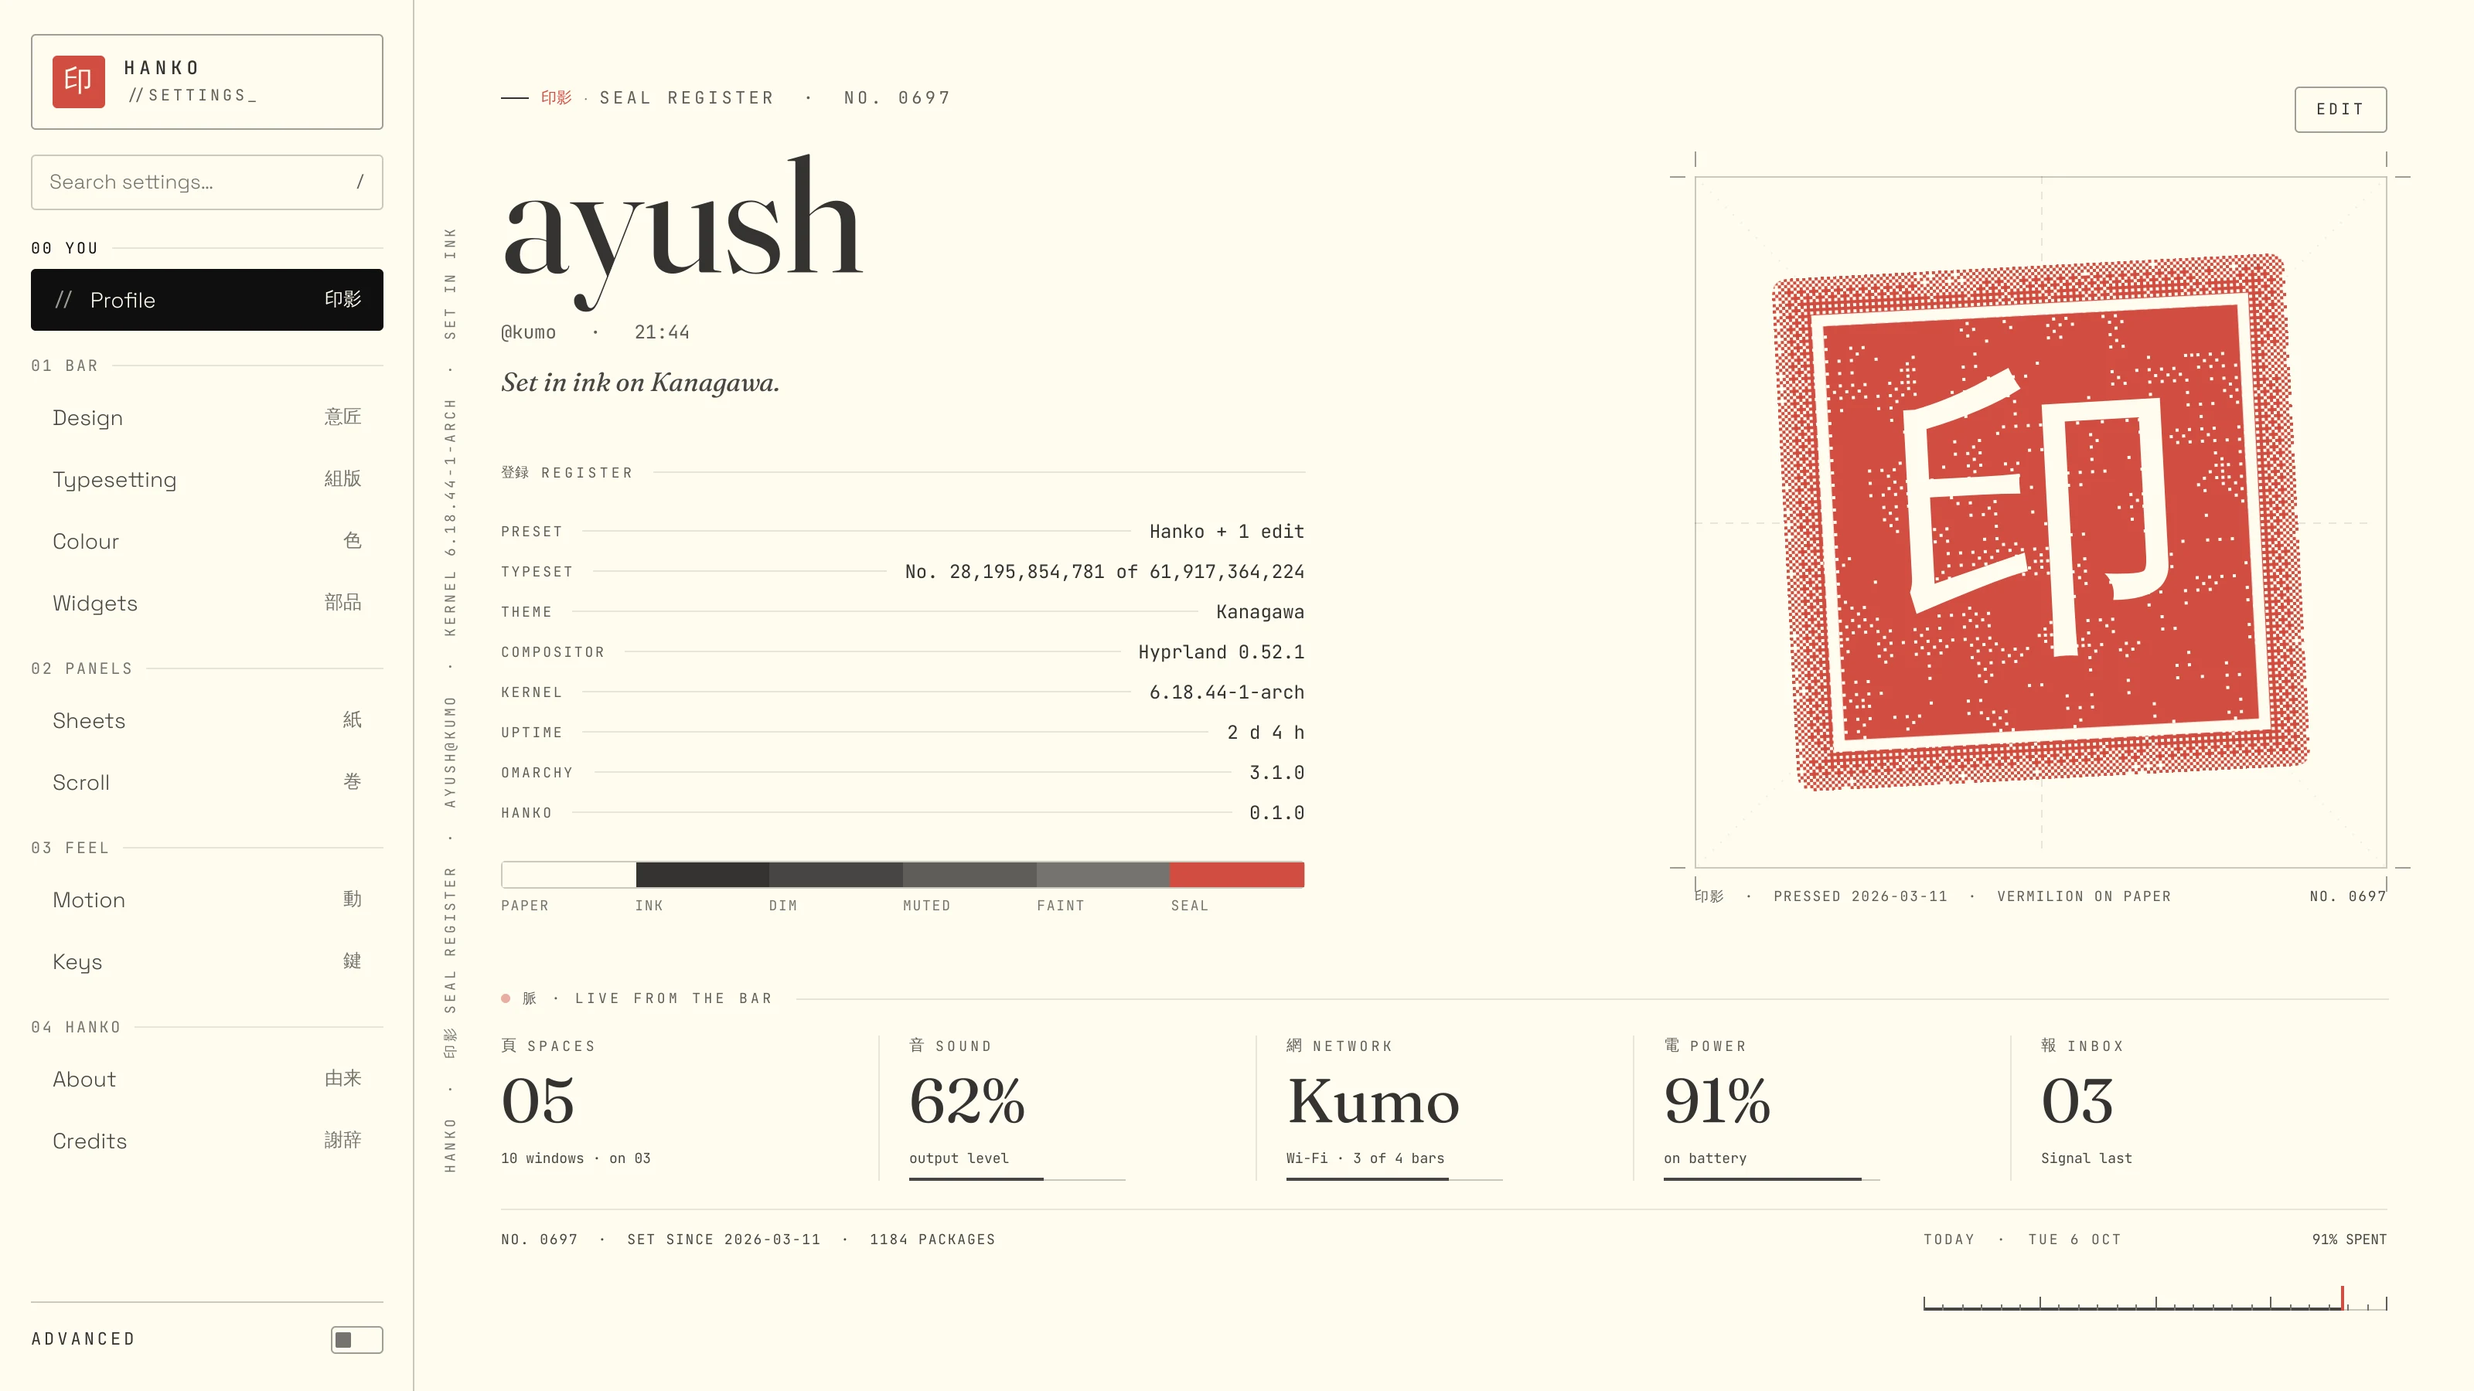
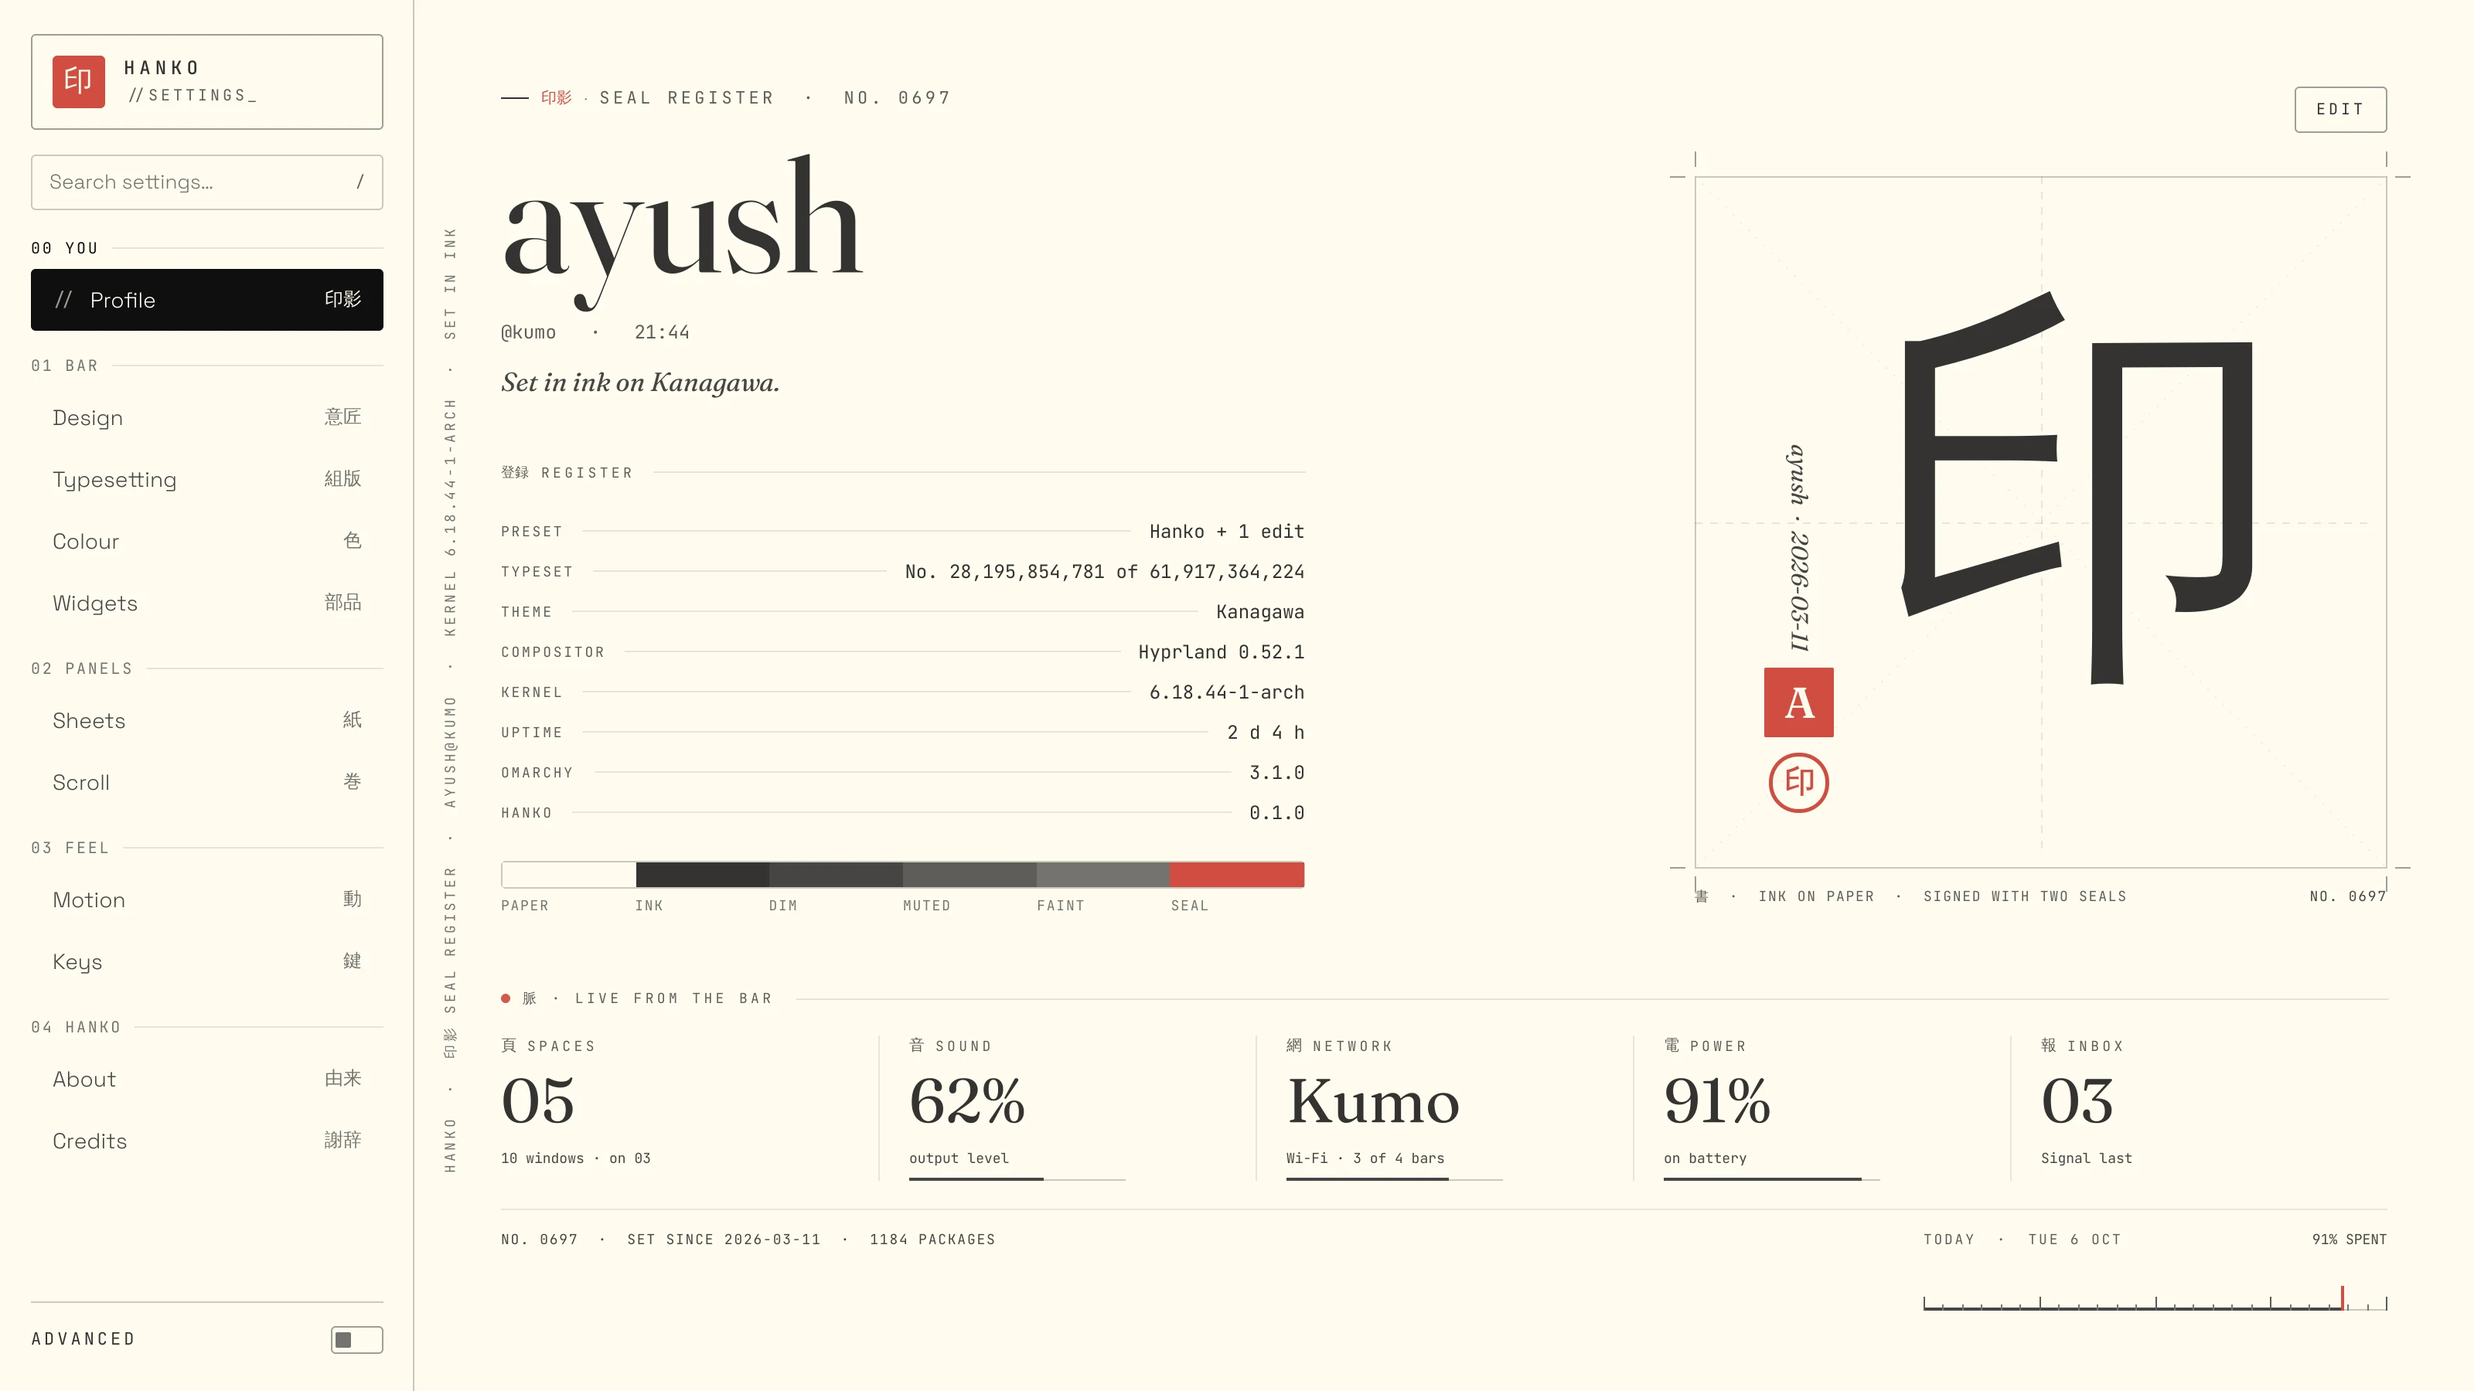
Profile: the seal becomes a one-character work signed with two small seals
The large dithered red seal is replaced by your glyph written in ink as a
one-character work, signed the way calligraphy is: your name down the
margin over a square white-cut name seal and a round red pen-name seal,
drawn crisp in vector. SealImpression is removed.

Claude-Session: https://claude.ai/code/session_01Tp9gk1FgjZsMjeqrzW7SN3

Changed region(s): [[0.6875, 0.1867, 0.9375, 0.5911], [0.7812, 0.6222, 0.875, 0.6533], [0.7188, 0.6222, 0.75, 0.6533]]

diff --git a/bar/settings/Shikishi.qml b/bar/settings/Shikishi.qml
@@ -1,0 +1,101 @@
+import QtQuick
+import "../../core"
+
+// Your seal glyph written as a one-character work (一字書) and signed the
+// way calligraphy is: the work large in ink, and in its lower left the
+// rakkan (落款), a signature running down the margin over two small seals,
+// as a work carries them: a square hakubun (白文, your name's initial cut
+// white out of vermilion) for the name, and a round shubun (朱文, the glyph
+// standing in vermilion) for the pen name. Drawn crisp in vector,
+// so the only red on the Profile plate is two small, exact marks.
+Item {
+  id: root
+
+  property string glyph: "印"
+  property string name: ""
+  property string date: ""
+
+  readonly property real s: Math.min(width, height)
+  readonly property string initial: (name || "?").charAt(0).toUpperCase()
+
+  // The work: the glyph, large, a little right of centre so the signature
+  // has its margin.
+  Text {
+    id: work
+    x: Math.round(root.width * 0.56 - width / 2)
+    y: Math.round(root.height * 0.46 - height / 2)
+    text: root.glyph
+    color: Ink.ink
+    font.family: Type.jpSerif
+    font.weight: Font.Black
+    font.pixelSize: Math.round(root.s * 0.6)
+  }
+
+  // The rakkan, down the left margin: the signature, then the seals.
+  Column {
+    id: rakkan
+    x: Math.round(root.s * 0.1)
+    anchors.bottom: parent.bottom
+    anchors.bottomMargin: Math.round(root.s * 0.08)
+    spacing: Math.round(root.s * 0.022)
+
+    // The signature, set down the margin as a name is brushed down a work.
+    Item {
+      anchors.horizontalCenter: parent.horizontalCenter
+      width: sig.implicitHeight
+      height: sig.implicitWidth
+      Text {
+        id: sig
+        readonly property int size: Math.max(Type.px(11), Math.round(root.s * 0.034))
+        anchors.centerIn: parent
+        rotation: 90
+        text: root.name + (root.date ? "  ·  " + root.date : "")
+        color: Ink.inkDim
+        font.family: Type.display
+        font.italic: true
+        font.pixelSize: sig.size
+        font.variableAxes: Type.axes(sig.size)
+      }
+    }
+
+    // Hakubun, the name seal: your initial cut white out of vermilion.
+    Rectangle {
+      anchors.horizontalCenter: parent.horizontalCenter
+      width: Math.round(root.s * 0.1)
+      height: width
+      radius: Math.max(1, width * 0.04)
+      color: Ink.seal
+      Text {
+        id: nameSeal
+        readonly property int size: Math.round(parent.width * 0.62)
+        anchors.centerIn: parent
+        text: root.initial
+        color: Ink.paper
+        font.family: Type.display
+        font.weight: Font.DemiBold
+        font.pixelSize: nameSeal.size
+        font.variableAxes: Type.axes(nameSeal.size, 600)
+      }
+    }
+
+    // Shubun, the pen-name seal: the glyph standing in vermilion in a ring.
+    Rectangle {
+      anchors.horizontalCenter: parent.horizontalCenter
+      width: Math.round(root.s * 0.086)
+      height: width
+      radius: width / 2
+      color: "transparent"
+      border.width: Math.max(1.5, width * 0.07)
+      border.color: Ink.seal
+      Text {
+        anchors.centerIn: parent
+        anchors.verticalCenterOffset: -parent.width * 0.02
+        text: root.glyph
+        color: Ink.seal
+        font.family: Type.jpSerif
+        font.weight: Font.Bold
+        font.pixelSize: Math.round(parent.width * 0.52)
+      }
+    }
+  }
+}

diff --git a/bar/settings/ProfilePlate.qml b/bar/settings/ProfilePlate.qml
@@ -8,9 +8,10 @@ import "../../core/Profile.js" as P
 // Profile 印影, the seal register: the plate people screenshot to show their
 // desk, laid out like the certificate a seal is registered on (印鑑登録証明書)
 // on a modular grid. Left, the holder: your name monumental in Fraunces, the
-// line under it and the register's small print. Right, the impression: your
-// seal pressed square in a ruled box on a calligraphy practice grid (田字格),
-// with crop marks and its caption. Along the foot, the bar's live readings as
+// line under it and the register's small print. Right, the work: your seal
+// glyph written large in ink on a calligraphy practice grid (田字格) and
+// signed with a rakkan, two small seals under your name (Shikishi.qml), in
+// a ruled box with crop marks and its caption. Along the foot, the bar's live readings as
 // a row of stats (a game's status screen, kept to ink), then the edition and
 // the day as a rule. Ink on paper; the seal is the only red. EDIT lets you
 // rename it, give it a line and hide any block (core/Dossier.qml).
@@ -549,9 +550,9 @@ Item {
     }
   }
 
-  // The impression: the seal pressed in a ruled square on a calligraphy
-  // practice grid (田字格: a frame, its halves dashed), crop marks set off
-  // its corners, a label over it and its caption under.
+  // The work: your glyph written in ink and signed with two small seals,
+  // in a ruled square on a calligraphy practice grid (田字格: a frame, its
+  // halves dashed), crop marks set off its corners, its caption under.
   component Impression: Item {
     id: imp
     property real side: Type.px(400)
@@ -596,13 +597,11 @@ Item {
         }
       }
 
-      SealImpression {
-        anchors.centerIn: parent
-        width: Math.round(imp.side * 0.74)
-        height: width
-        rotation: -3
+      Shikishi {
+        anchors.fill: parent
         glyph: root.style.sealGlyph || "印"
-        seed: Number(root.edition) / 1000
+        name: root.name
+        date: root.machine.since || ""
       }
 
       // Crop marks, set off each corner.
@@ -634,7 +633,7 @@ Item {
       y: imp.side + Type.px(12)
       width: imp.side - impNo.implicitWidth - Type.px(14)
       elide: Text.ElideRight
-      text: "印影  ·  PRESSED " + (root.machine.since || Qt.formatDate(root.now, "yyyy-MM-dd")) + "  ·  VERMILION ON PAPER"
+      text: "書  ·  INK ON PAPER  ·  SIGNED WITH TWO SEALS"
       color: Ink.inkMuted
       font.family: Type.mono
       font.pixelSize: Type.tag

diff --git a/docs/COMPONENTS.md b/docs/COMPONENTS.md
@@ -423,7 +423,7 @@ There is a search field at the top and an **Advanced** switch at the foot (which
 
 **Profile 印影, About 由来 and Credits 謝辞** are plates, not pages: they fill the page like posters (the action bar shows only while there is something to save). They follow the grammar of Ryoku's Profile and Credits pages, with Hanko's own art drawn in code from the theme.
 
-- *Profile*, the seal register, laid out like the certificate a seal is registered on (印鑑登録証明書) on a two-column grid: left, the holder (your name in 104 px Fraunces, `@host · time` and a line of your own) over the register's small print (preset and edits, which of the combinations this bar is, theme, compositor, kernel, uptime, Omarchy and Hanko versions) and the six inks you are set in; right, the impression: your seal glyph pressed worn and square in a ruled box on a calligraphy practice grid (田字格: dashed halves, dotted diagonals; the `watermark` block), crop marks off its corners, captioned with the date it was pressed and the edition number for this machine; across the foot, the bar's live readings (spaces, sound, network, power, inbox) as a row of stats in Fraunces, each with a hairline gauge where it has a level; then the edition and today as a rule with the now-notch. Narrow windows stack it: holder, impression, stats two or three to a row, small print. **EDIT**: click your name or line to rewrite it, an eye on each block hides it (watermark, seal, vitals, specs, palette, day, spine), Save image writes `~/Pictures/hanko-profile-DATE.png`, Reset clears it all. Kept in `~/.config/hanko/profile.json`.
+- *Profile*, the seal register, laid out like the certificate a seal is registered on (印鑑登録証明書) on a two-column grid: left, the holder (your name in 104 px Fraunces, `@host · time` and a line of your own) over the register's small print (preset and edits, which of the combinations this bar is, theme, compositor, kernel, uptime, Omarchy and Hanko versions) and the six inks you are set in; right, the work: your seal glyph written large in ink as a one-character work (一字書) and signed as calligraphy is, with a rakkan (落款) down its left margin: your name and the date the machine was set up, then two small vermilion seals, a square hakubun (白文, your initial cut white) and a round shubun (朱文, the glyph in a ring); in a ruled box on a calligraphy practice grid (田字格: dashed halves, dotted diagonals; the `watermark` block), crop marks off its corners, captioned and numbered with this machine's edition; across the foot, the bar's live readings (spaces, sound, network, power, inbox) as a row of stats in Fraunces, each with a hairline gauge where it has a level; then the edition and today as a rule with the now-notch. Narrow windows stack it: holder, impression, stats two or three to a row, small print. **EDIT**: click your name or line to rewrite it, an eye on each block hides it (watermark, seal, vitals, specs, palette, day, spine), Save image writes `~/Pictures/hanko-profile-DATE.png`, Reset clears it all. Kept in `~/.config/hanko/profile.json`.
 - *About*: 判子 Hanko on one line, the deck, How it is made as leader lines, the three directions it was drawn in side by side, and the colophon in a ruled 奥付 box (each face set in itself, the inks with their contrast) under the moon, or in the column on a narrow page.
 - *Credits*: 感謝 Gratitude on one line, the deck, every credit under three heads (Foundation 礎, Lineage 系譜, Type 活字; `Profile.js` `CREDIT_GROUPS`), and the proofreaders on a ruled card stamped 校.
 - *About*: 判子 Hanko, a deck, how it is put together (kind, version, settings, files, commands, source), the three directions it was drawn in, and a colophon that sets each face in itself and prints the inks with their contrast; a whole dithered moon on the right.

diff --git a/docs/ROADMAP.md b/docs/ROADMAP.md
@@ -118,6 +118,7 @@ Spec: `docs/kata/README.md` (also on `revision1`). Margin, Leaf and Shōji becom
 - ✅ **Bar feedback, after game HUDs**: readings count up to new values, meters fill tick by tick, a changed reading's label inks up for a moment, cells press, and a red reading also breathes. `tests/motion.py` checks the motion.
 - ✅ **Bar, a more natural pass**: the rodrule drawn as a stroke of ink that fades at its ends and darkens toward now, readings grouped by space instead of hairlines, a half-length BT meter, workspace windows as solid tiles, and the rod's grip shown only when you reach for it.
 - ✅ **Profile, About and Credits redesigned**: Profile as a seal registration certificate (holder and register left, the seal in a ruled box on a practice grid right, live readings as a row of stats with gauges, edition and day as the foot); About with its lineage side by side and a 奥付 colophon box under the moon; Credits grouped under Foundation, Lineage and Type with a 校-stamped proofreaders card.
+- ✅ **Profile: the seal becomes a signed work**: the dithered red seal is gone; your glyph is written large in ink and signed with a rakkan, your name down the margin over two small seals (a white-cut square with your initial, a red ring with the glyph).
 - ✅ **K7 · Settings › Design 意匠** (asked for without a Save button): the rail's first Bar page. Four design cards, each with its bar drawn live (Classic the Typeset bar); the mix named in a line, Back to the design and Surprise me; twelve borrow rows, each variant drawn small by its own part (`bar/settings/PartPreview.qml`), the current one ringed and a borrowed part marked; the touches (season with today's sekki, numerals, grain). The whole settings window now saves as you go: `Typeset.keep()` after every edit, `Typeset.history` and `undo()` (Ctrl+Z and the action bar's Undo), forgotten on close; Save and Revert are gone. Harness `design-settings.json`, `-light`, `-narrow`.
 
 ## Dev loop

diff --git a/README.md b/README.md
@@ -18,7 +18,7 @@ A bar for [Omarchy](https://github.com/omacom/omarchy), printed in your theme's 
 - **A workspace overview:** every workspace laid out as a page with its windows live where they sit. Arrows switch, a click goes there, dragging moves a window, middle-click closes one. Or pick Ryoku's layout: only the workspaces you use, a + for a new one, and desktops along the top.
 - **Your widgets still work:** Omarchy's hotkeys, tray, indicators and third-party bar widgets.
 - **Follows your theme,** light or dark, and switches with it live.
-- **A profile plate to show off your desk:** Profile 印影 in the settings window is laid out like a seal registration certificate: your name and your machine's small print, your seal pressed in a ruled box, and your bar's live readings as a row of stats; EDIT renames it, hides any block and saves it as an image. About 由来 and Credits 謝辞 sit beside it.
+- **A profile plate to show off your desk:** Profile 印影 in the settings window is laid out like a seal registration certificate: your name and your machine's small print, your seal glyph written large in ink and signed with two small seals, and your bar's live readings as a row of stats; EDIT renames it, hides any block and saves it as an image. About 由来 and Credits 謝辞 sit beside it.
 - **Safe to try:** if Hanko fails to load, Omarchy puts its own bar back.
 
 ## Requirements
